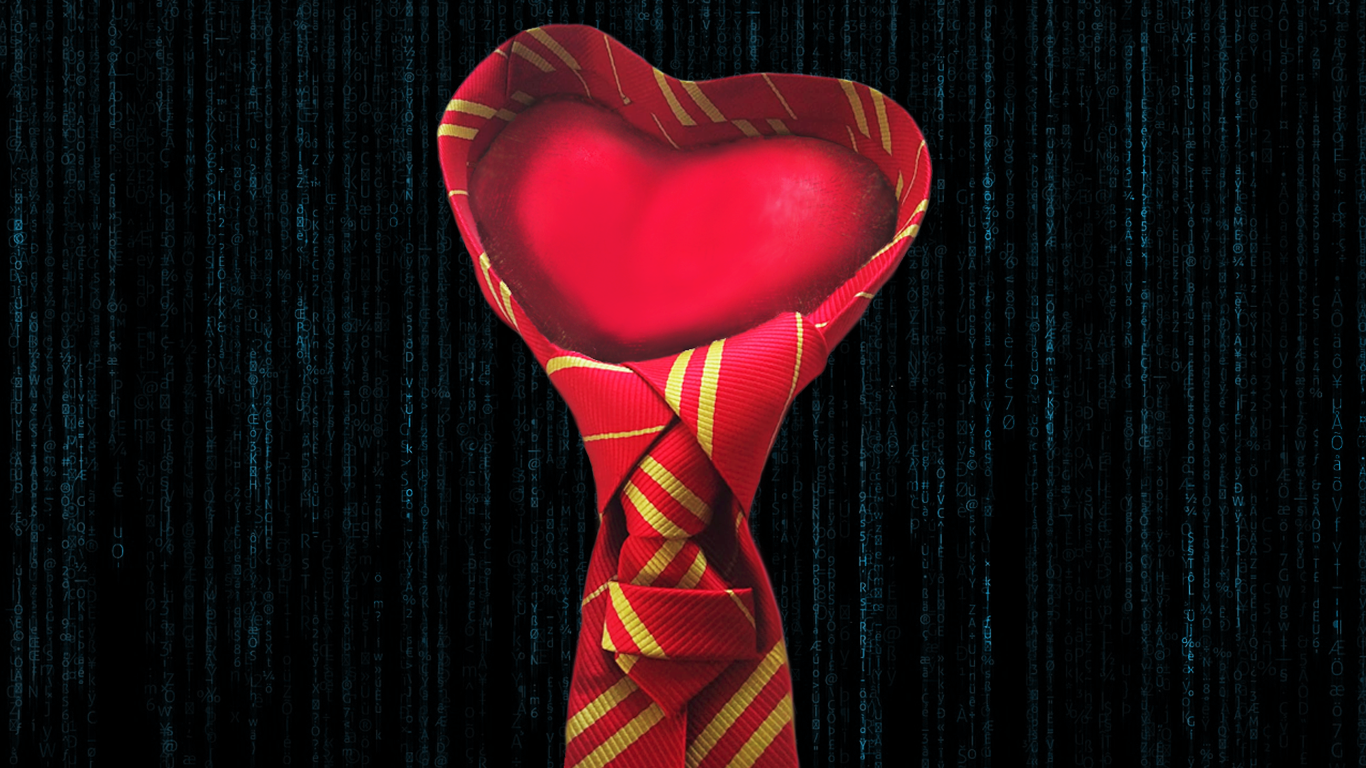
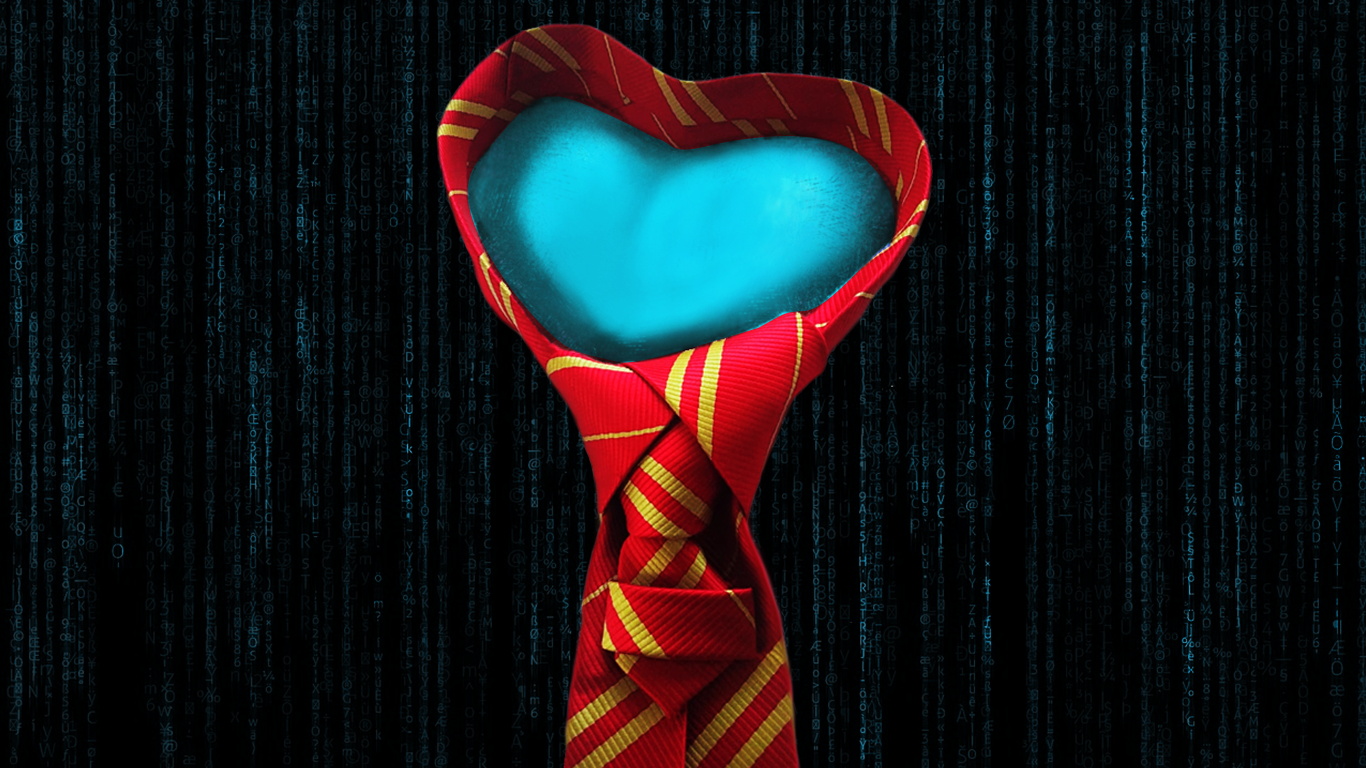
Updates

Changed region(s): [[0.3075, 0.0312, 0.6764, 1.0]]

diff --git a/css/main.css b/css/main.css
@@ -40,8 +40,8 @@ a {
           align-items: center;
   text-align: center;
   overflow: hidden;
-  background: -webkit-gradient(linear, left top, right top, from(#7b6a8a12), to(#1e272f24)), url(../img/heart_matrix_blue.png) center bottom;
-  background: linear-gradient(to right, #7b6a8a12, #1e272f24), url(../img/heart_matrix_blue.png) center bottom;
+  background: -webkit-gradient(linear, left top, right top, from(#7b6a8a12), to(#1e272f24)), url(../img/heart_matrix_gold.png) center bottom;
+  background: linear-gradient(to right, #7b6a8a12, #1e272f24), url(../img/heart_matrix_gold.png) center bottom;
   background-size: cover;
   background-repeat: no-repeat;
   -ms-flex-pack: distribute;
@@ -103,11 +103,10 @@ a {
         margin-top: -2rem; } }
   .home .my_name,
   .homeMain .my_name {
-    font-family: "Cinzel Decorative", cursive;
-    font-size: 1.59em;
+    font-size: 2.5em;
     font-weight: bold;
     line-height: 1em;
-    color: #f7dea7;
+    color: #5a491a;
     letter-spacing: 0em;
     text-shadow: none;
     text-align: center;
@@ -132,12 +131,11 @@ a {
     margin: 0; }
     .home .title_txt_container .title_text,
     .homeMain .title_txt_container .title_text {
-      font-size: 1.25rem;
+      font-size: 1.3rem;
       font-family: "Poiret One", cursive;
       font-family: "Audiowide", cursive;
-      font-family: "Cormorant Unicase", serif;
       text-shadow: 3.28px 3.36px #e7ffc7;
-      color: #f7dea7;
+      color: #5a491a;
       text-shadow: none;
       padding: 0; }
       @media only screen and (min-width: 768px) {
@@ -437,7 +435,7 @@ a {
   z-index: 4;
   width: 100vw;
   height: 48px;
-  background-color: #bc2241;
+  background-color: #2d5e6d;
   -webkit-box-shadow: 0px 2px 1px rgba(157, 32, 26, 0.127), 0px -3px 1px rgba(99, 11, 6, 0.244);
           box-shadow: 0px 2px 1px rgba(157, 32, 26, 0.127), 0px -3px 1px rgba(99, 11, 6, 0.244); }
   @media only screen and (min-width: 768px) {
@@ -1652,4 +1650,5 @@ footer {
     @media only screen and (min-width: 1024px) {
       .social-icons .fa-2x {
         font-size: 1.2rem; } }
+
 /*# sourceMappingURL=main.css.map */
